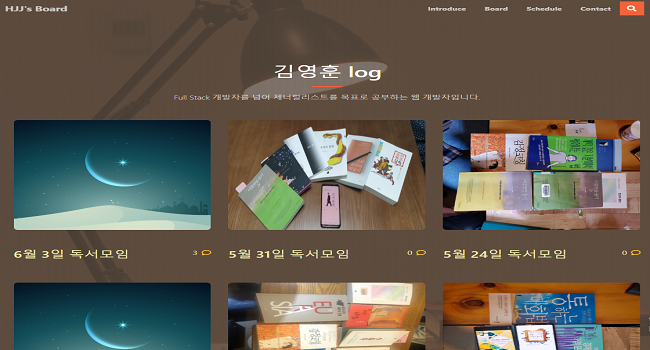
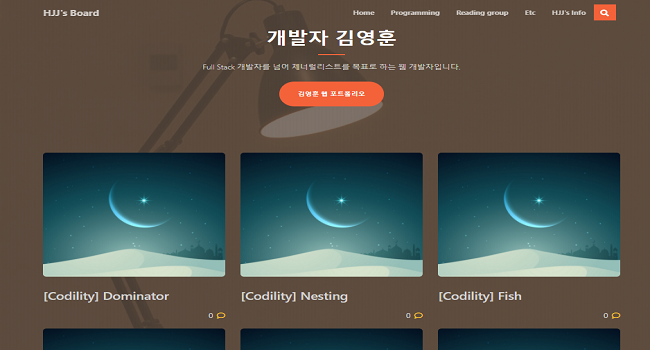
content update

diff --git a/index.html b/index.html
@@ -196,10 +196,32 @@
         <div class="col-lg-5 col-sm-5" style="margin-left:4%;margin-right:4%">
 			<div class="mt-5">
 				<h3 class="h4 mb-2">[개인] HJJ's Board</h3>
-				<p>참여 기간 : 20년 05월 ~ <span id="nowDate"></span></p>
+				<p>참여 기간 : 20년 04월 ~ 20년 6월</p>
 				<p>블로그형 게시판.<br>(spring-boot + bootstrap + mysql + svn 이용)</p>
 				<p class="btn btn-primary btn-xl js-scroll-trigger" onClick="openWin('http://devhjj.ga')">홈페이지</p>
-				<p class="btn btn-light btn-xl js-scroll-trigger" onClick="openWin('')">소스 준비중입니다</a>
+				<p class="btn btn-light btn-xl js-scroll-trigger" onClick="openWin('http://58.145.88.35:9999/')">접속이 안될시 클릭</a>
+			</div>
+			<hr class="divider my-2"></hr>
+        </div>
+		<div class="col-lg-6 col-sm-6">
+          <a class="portfolio-box" href="img/portfolio/fullsize/4.PNG">
+            <img class="img-fluid" src="img/portfolio/thumbnails/4.png" alt="">
+            <div class="portfolio-box-caption">
+              <div class="project-category text-white-50">
+                Toy project
+              </div>
+              <div class="project-name">
+                SNS형 게시판
+              </div>
+            </div>
+          </a>
+        </div>
+        <div class="col-lg-5 col-sm-5" style="margin-left:4%;margin-right:4%">
+			<div class="mt-5">
+				<h3 class="h4 mb-2">[개인] HJJ's Log</h3>
+				<p>참여 기간 : 20년 08월 ~ <span id="nowDate"></span></p>
+				<p>SNS 스타일의 게시판<br>(spring-boot + bootstrap + mysql + svn 이용)</p>
+				<p class="btn btn-primary btn-xl js-scroll-trigger" onClick="openWin('http://58.145.88.35:9999/log')">홈페이지</p>
 			</div>
 			<hr class="divider my-2"></hr>
         </div>
